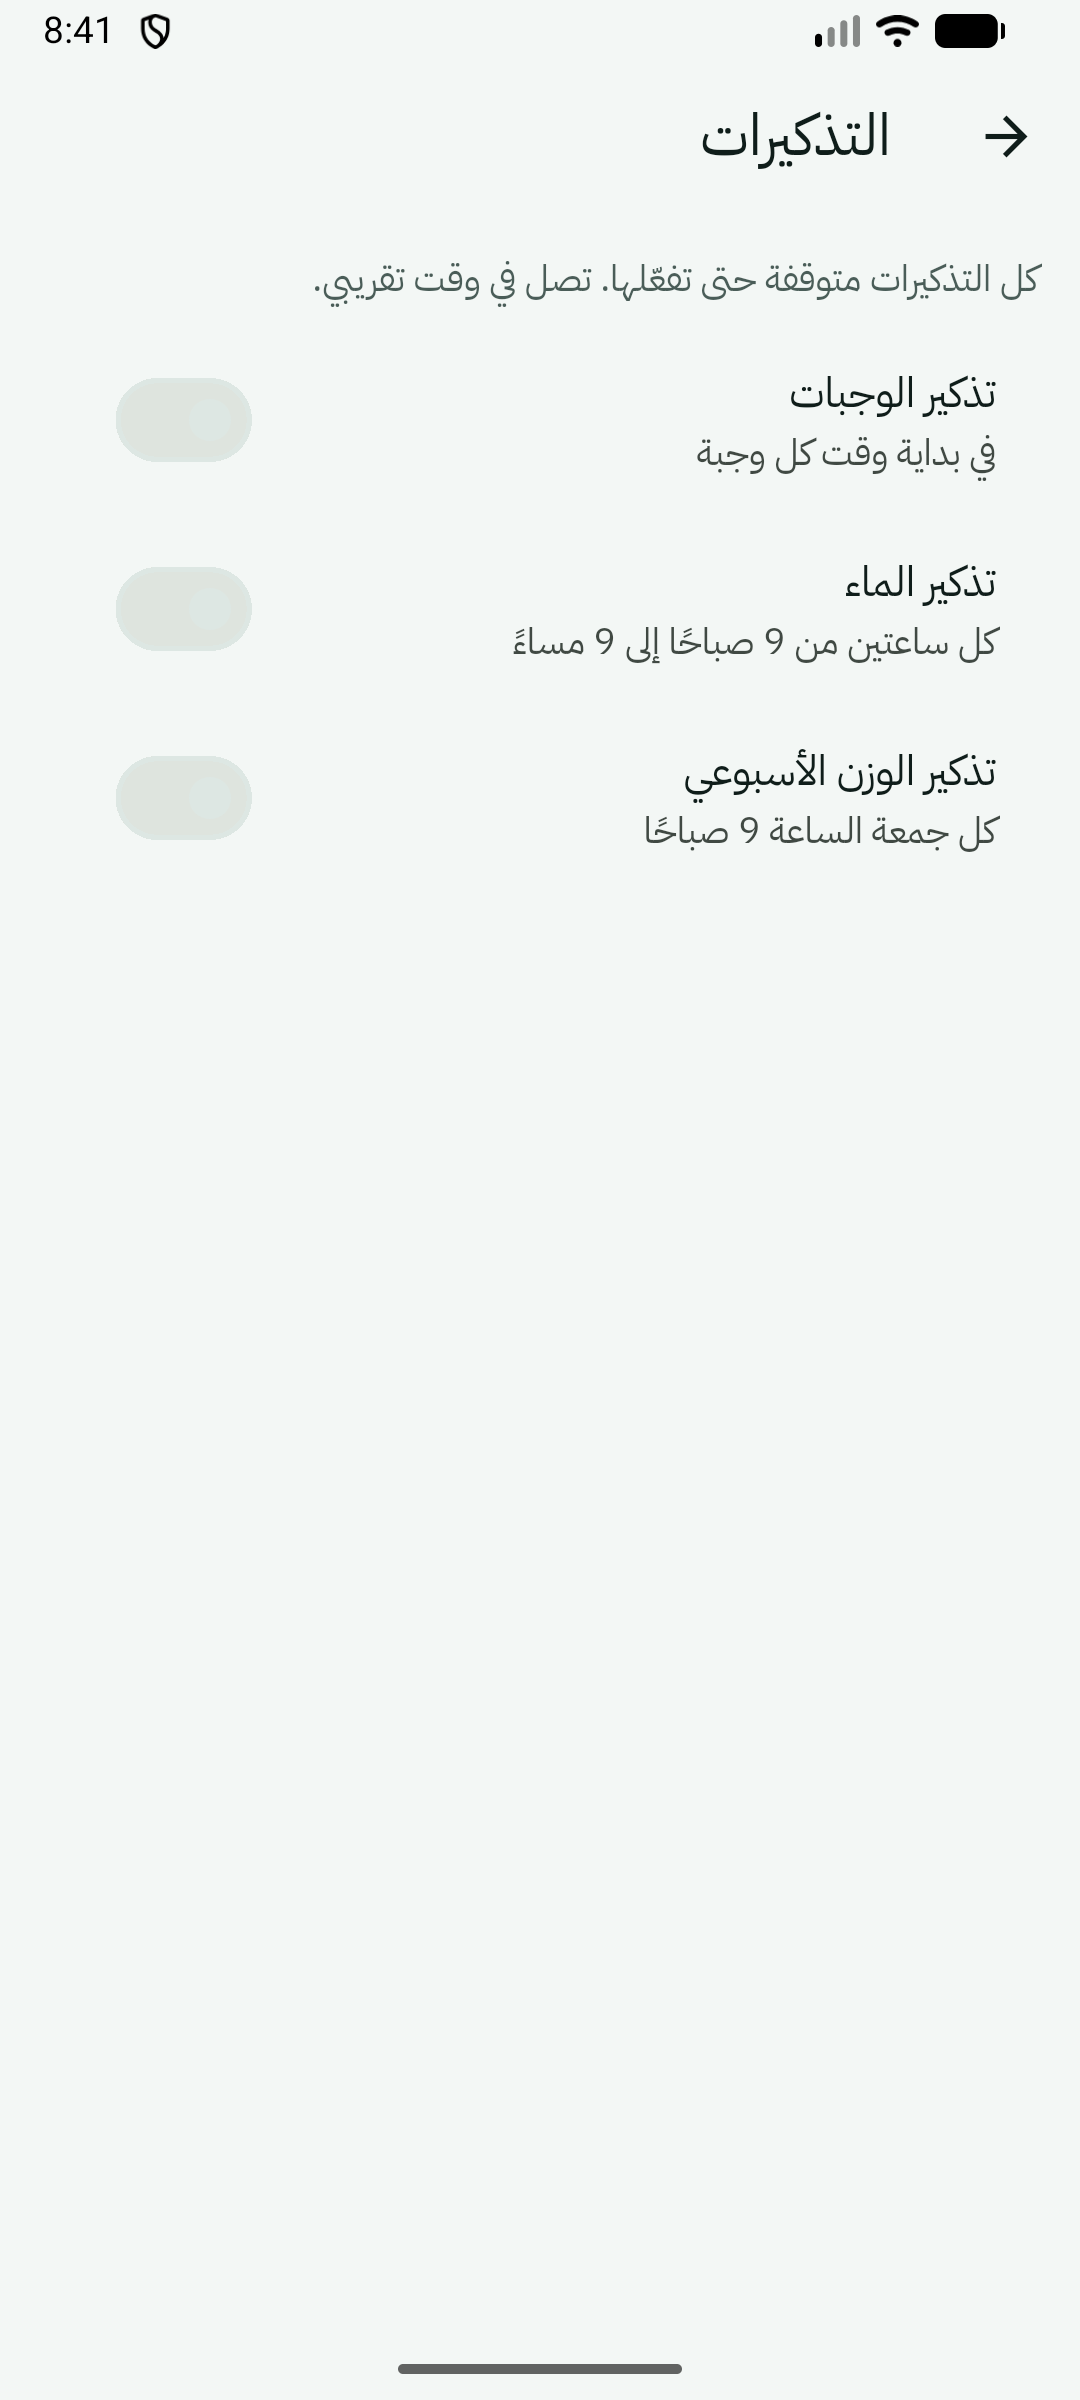
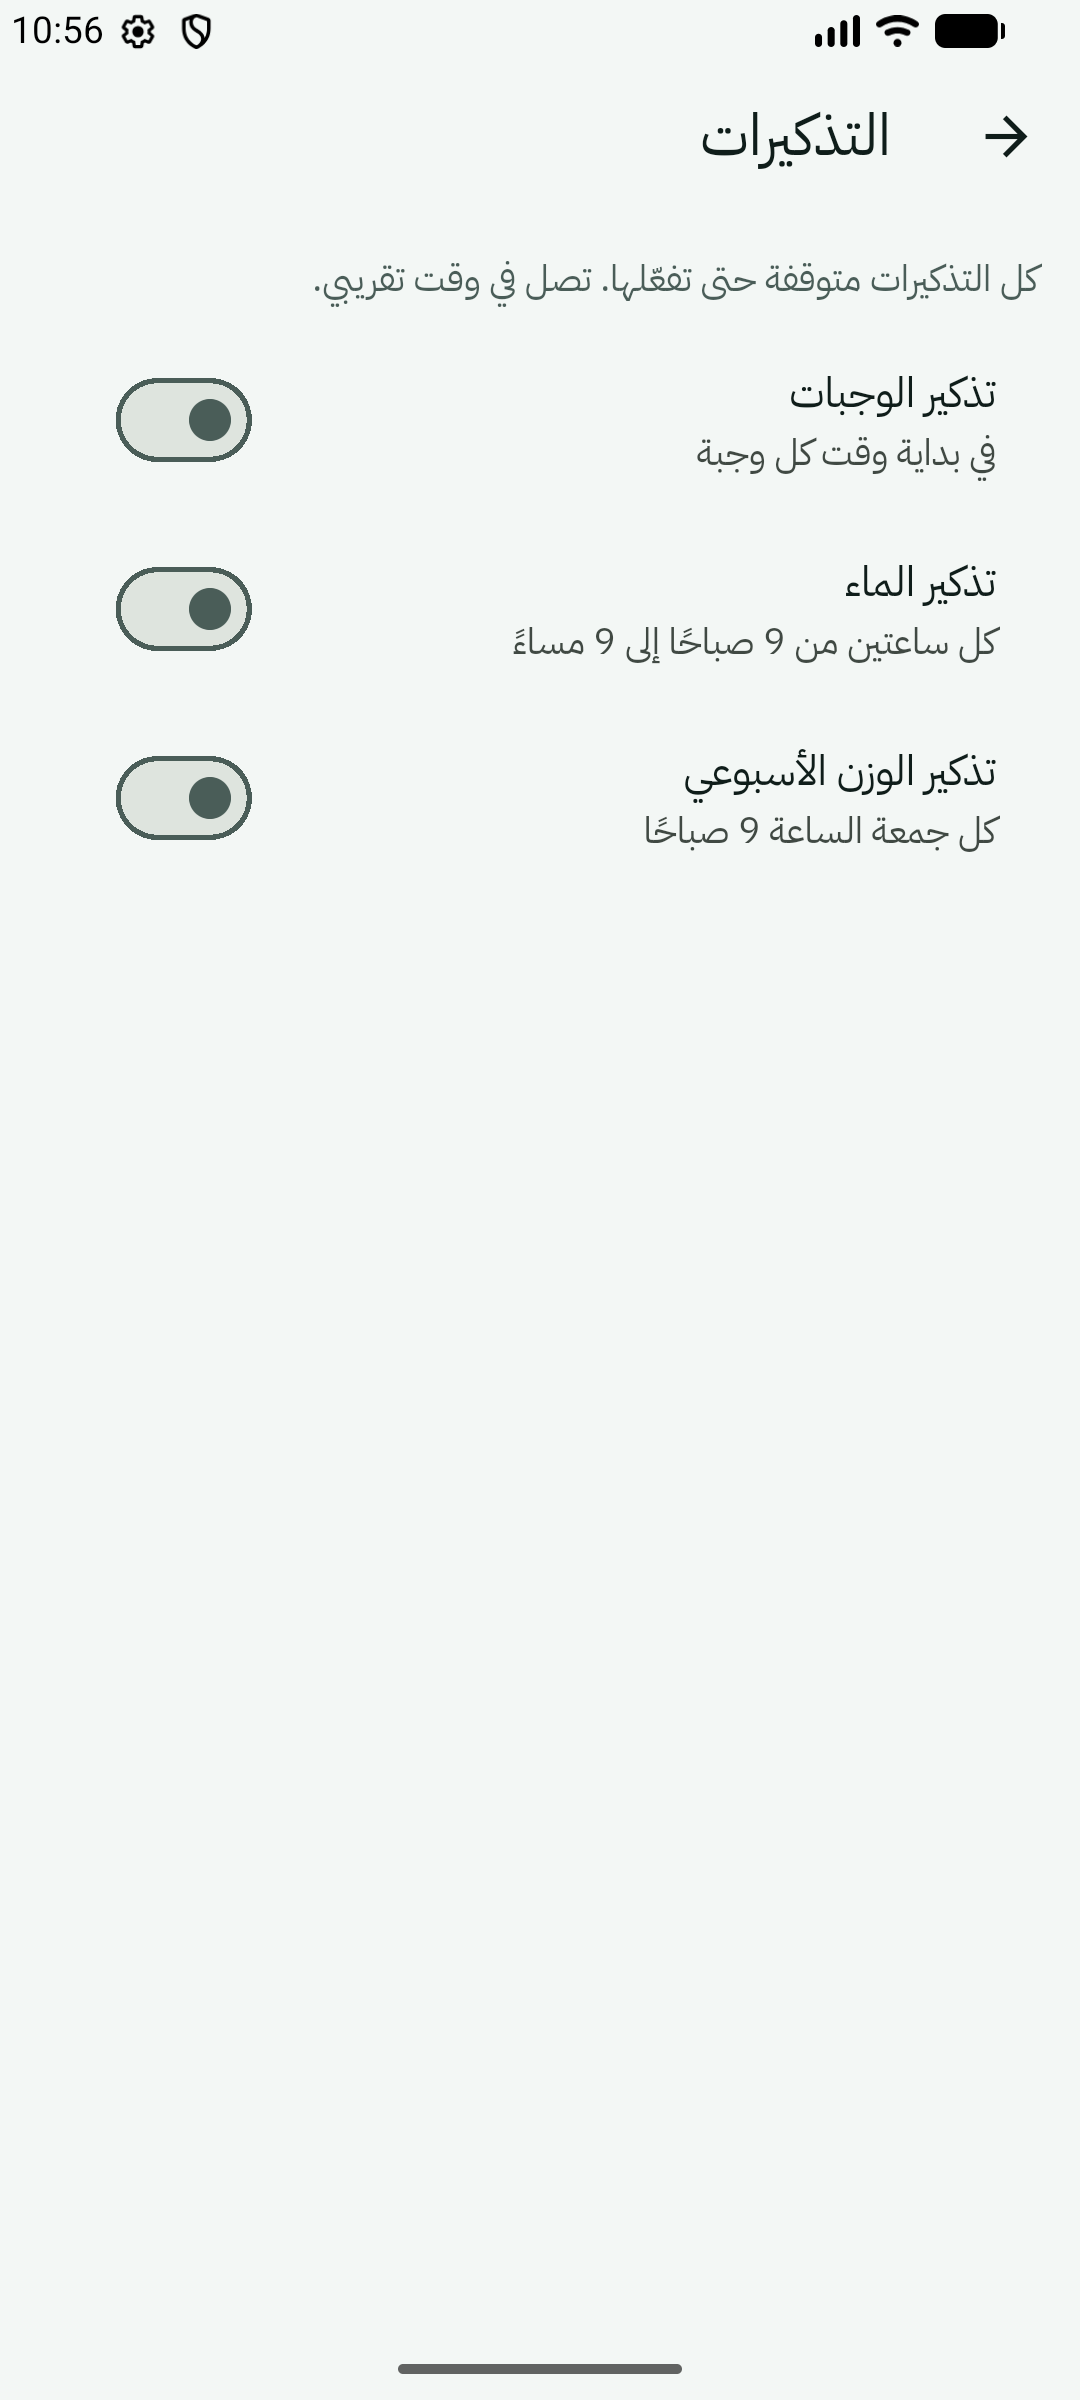
feat(mobile): P.1 reminders switch contrast and subtitle wrap (#319)
Off switches use fg2 for the thumb and track edge (3:1 or more) instead of
the faint outline color; reminder subtitles take up to two lines. New
widget test checks no cut text at scale 1.0 in Arabic and the off contrast.

diff --git a/mobile/test/features/reminders/reminders_test.dart b/mobile/test/features/reminders/reminders_test.dart
@@ -1,6 +1,9 @@
+import 'dart:math' as math;
+
 import 'package:drift/drift.dart' hide isNotNull, isNull;
 import 'package:drift/native.dart';
 import 'package:flutter/material.dart';
+import 'package:flutter/rendering.dart';
 import 'package:flutter_test/flutter_test.dart';
 import 'package:nutriguide/core/db/app_database.dart' hide PlanItem;
 import 'package:nutriguide/features/auth/domain/account_info.dart';
@@ -170,6 +173,44 @@ void main() {
       expect(fake.scheduled, hasLength(7 + 1));
     });
 
+    testNutriguide(
+      'subtitles are not cut and off switches are visible (#319)',
+      (tester) async {
+        final database = await seeded();
+        addTearDown(database.close);
+        await pumpNutriguide(
+          tester,
+          auth: _signedIn(),
+          database: database,
+          notifications: FakeNotificationsGateway(),
+        );
+        await open(tester);
+        expect(
+          MediaQuery.textScalerOf(
+            tester.element(find.byKey(const Key('reminders-screen'))),
+          ).scale(10),
+          10,
+        );
+        for (final kind in ReminderKind.values) {
+          final tile = find.byKey(Key('reminder-${kind.name}'));
+          final paragraphs = tester.renderObjectList<RenderParagraph>(
+            find.descendant(of: tile, matching: find.byType(RichText)),
+          );
+          expect(paragraphs, isNotEmpty);
+          for (final paragraph in paragraphs) {
+            expect(paragraph.didExceedMaxLines, isFalse);
+          }
+        }
+        final context = tester.element(
+          find.byKey(const Key('reminders-screen')),
+        );
+        final theme = Theme.of(context);
+        final off = theme.switchTheme.thumbColor!.resolve(<WidgetState>{})!;
+        final ratio = _contrast(off, theme.scaffoldBackgroundColor);
+        expect(ratio, greaterThanOrEqualTo(3));
+      },
+    );
+
     testNutriguide('denied permission keeps the switch off', (tester) async {
       final database = await seeded();
       addTearDown(database.close);
@@ -254,4 +295,10 @@ FakeAuthRepository _signedIn() {
       account: AccountInfo(hasProfile: true, email: 'a@b.co'),
     ),
   );
+}
+
+double _contrast(Color a, Color b) {
+  final high = math.max(a.computeLuminance(), b.computeLuminance());
+  final low = math.min(a.computeLuminance(), b.computeLuminance());
+  return (high + 0.05) / (low + 0.05);
 }

diff --git a/mobile/lib/core/theme/app_theme.dart b/mobile/lib/core/theme/app_theme.dart
@@ -38,6 +38,16 @@ abstract final class AppTheme {
       scaffoldBackgroundColor: colors.bg,
       fontFamily: fontFamily,
       extensions: <ThemeExtension<dynamic>>[colors],
+      // `outline` is the faint divider color, too light for an off switch;
+      // fg2 keeps the off thumb and track edge at 3:1 or more (#319).
+      switchTheme: SwitchThemeData(
+        thumbColor: WidgetStateProperty.resolveWith(
+          (states) => states.contains(WidgetState.selected) ? null : colors.fg2,
+        ),
+        trackOutlineColor: WidgetStateProperty.resolveWith(
+          (states) => states.contains(WidgetState.selected) ? null : colors.fg2,
+        ),
+      ),
       textTheme: typography.apply(
         bodyColor: colors.fg,
         displayColor: colors.fg,

diff --git a/mobile/lib/features/reminders/presentation/reminders_screen.dart b/mobile/lib/features/reminders/presentation/reminders_screen.dart
@@ -63,7 +63,8 @@ class _RemindersScreenState extends ConsumerState<RemindersScreen> {
                 key: Key('reminder-${kind.name}'),
                 value: settings.isOn(kind),
                 title: Text(title),
-                subtitle: Text(subtitle),
+                // Up to two lines, so the hint is never cut (#319).
+                subtitle: Text(subtitle, maxLines: 2),
                 onChanged: _busy
                     ? null
                     : (bool on) => unawaited(_toggle(kind, on)),
